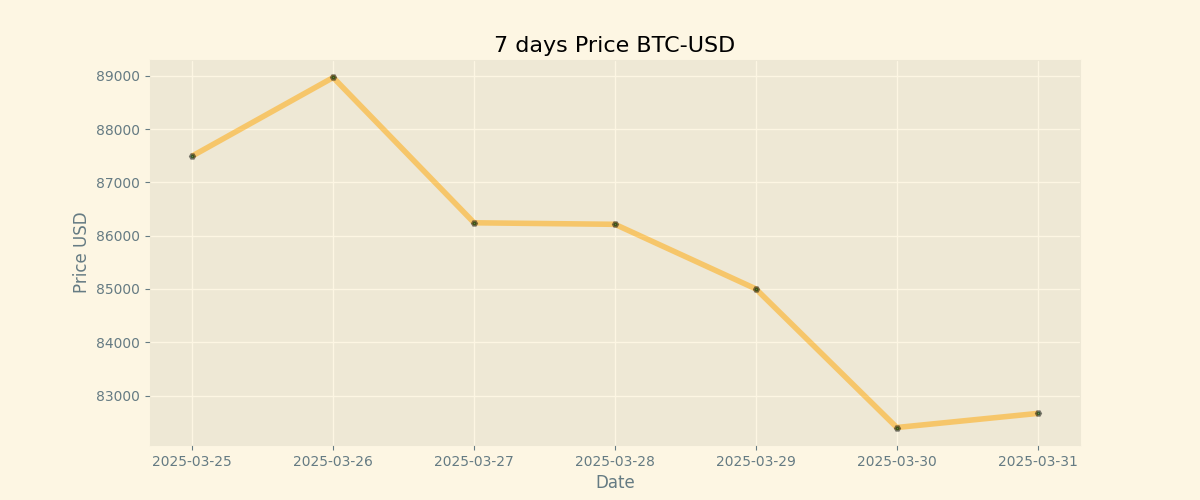
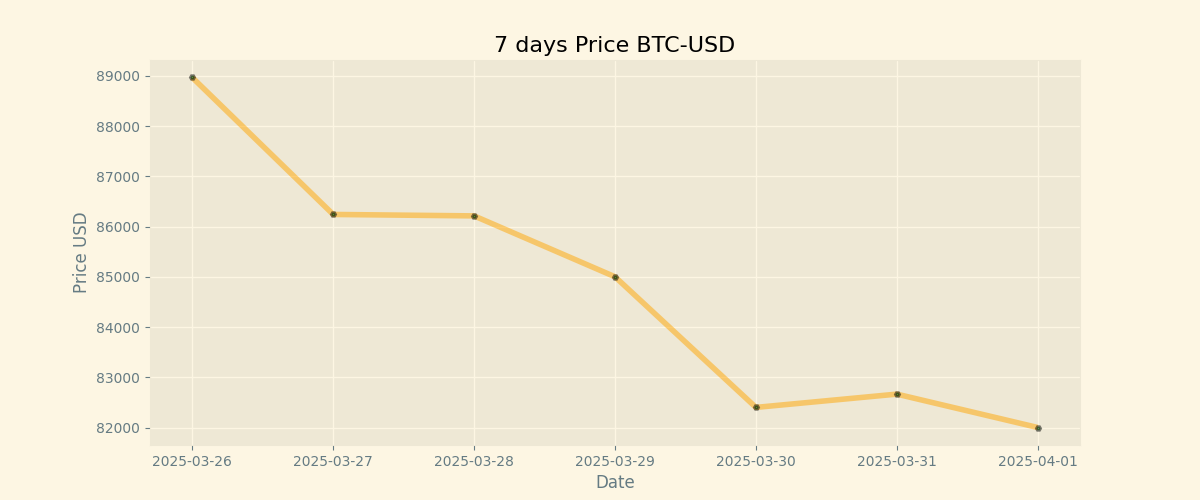
Duty Updates 2025-04-01

diff --git a/README.md b/README.md
@@ -9,8 +9,8 @@
 
 | Currency | Price           |
 | -------- | --------------- |
-| **BTC**  | **$ 82665.34** |
-| **ETH**  | **$ 1815.0** |
+| **BTC**  | **$ 82001.0** |
+| **ETH**  | **$ 1817.87** |
 
 ## BTC chart
 
